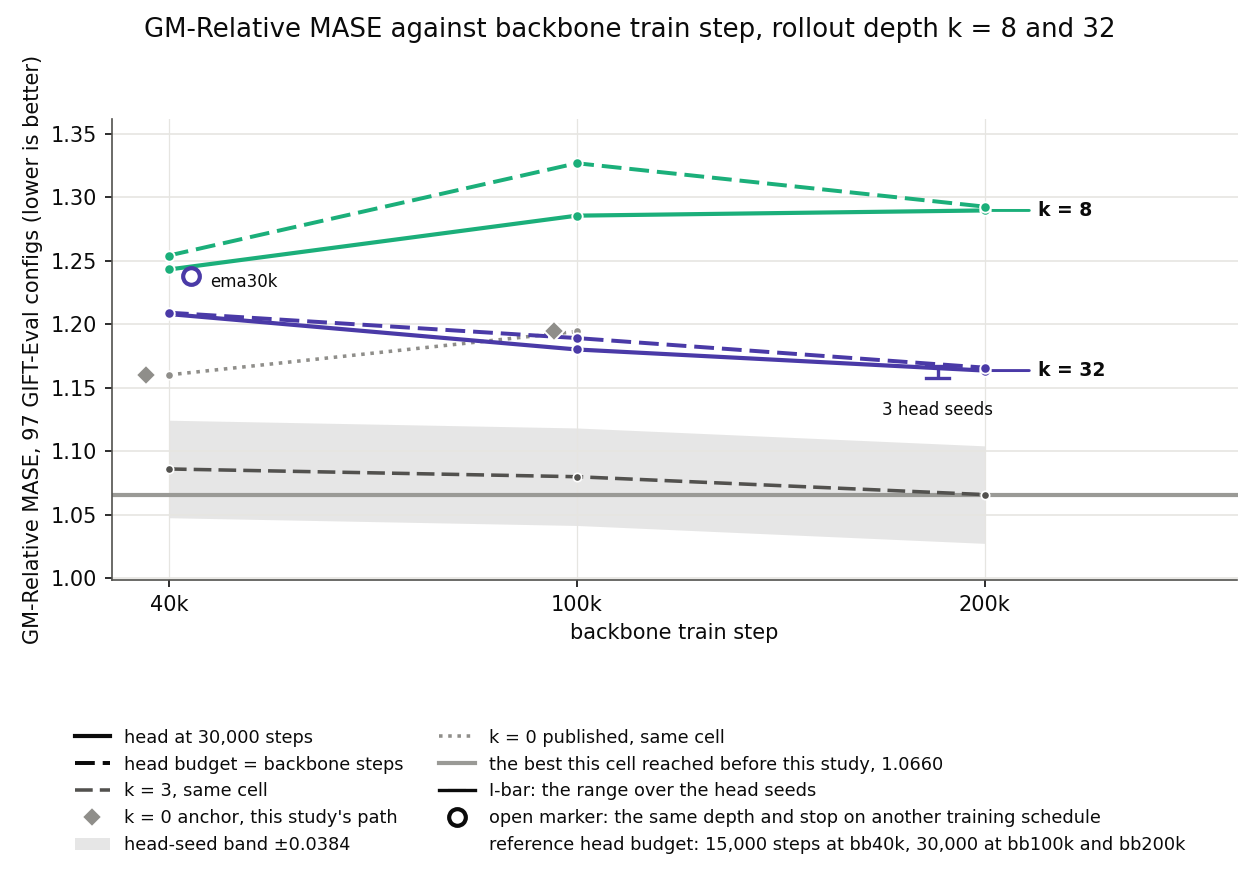
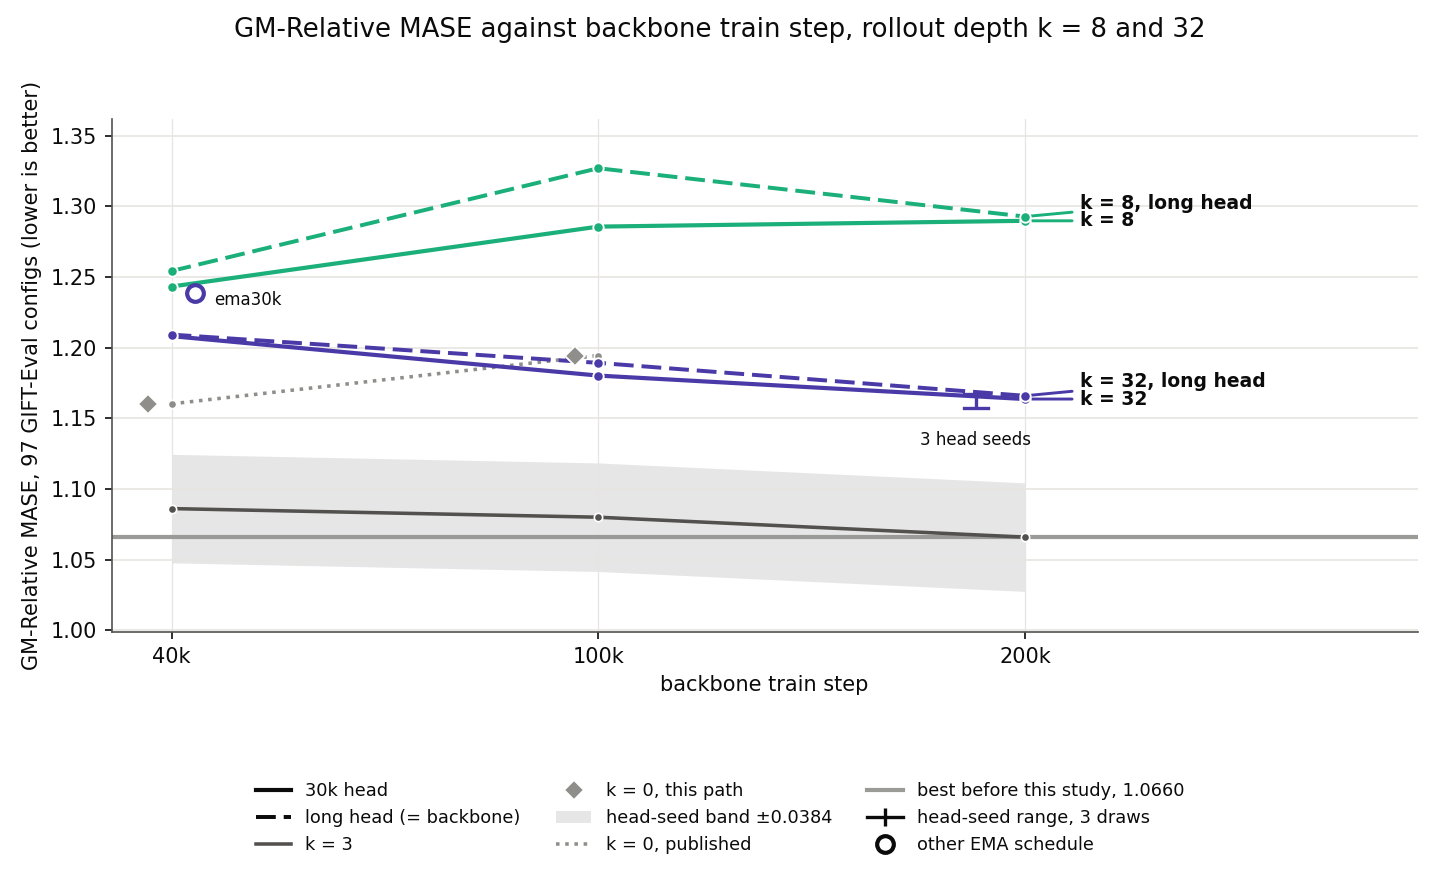
report(#401): the ladder's colour and legend, so a reader decodes nothing
Dashed carried two meanings in one figure: the matched head budget on an arm,
and the k = 3 reference. The k = 3 reference is a plain line now, so dashed
means the head budget and nothing else.

Both curves of a depth carry a direct label, `k = 8` and `k = 8, long head`,
so identity never rests on a line style.

The legend was nine sentences and ran off both edges. An entry is a key now:
`30k head`, `long head (= backbone)`, `k = 3`, `k = 0, published`,
`k = 0, this path`. Every "same cell" and "this study's path" qualifier moves
to the caption, which is where the report's other provenance sits. The
reference head budget moves there too. The head-seed key draws as an I-bar,
because it marks an I-bar.

The canvas is wider and the right margin holds the four end labels.

No number changed. 754 tests pass and the CI gate exits 0.

Claude-Session: https://claude.ai/code/session_017ZyjWRedGjUN9qyu7EpDpU

diff --git a/reports/2026-08-15_rollout_depth_k16_8_32/scripts/plot_depth_ladder.py b/reports/2026-08-15_rollout_depth_k16_8_32/scripts/plot_depth_ladder.py
@@ -34,7 +34,8 @@ changes across them:
 The dashed, the dotted and the grey mark are all the parent study's numbers,
 so they carry ITS head budget: 15,000 steps at bb40k and 30,000 at bb100k and
 bb200k. The right panel's own cells train 40,000 and 100,000 head steps, so
-that panel is not head-matched. `REF_HEAD_NOTE` puts this in the legend.
+that pair is not head-matched. The caption carries this, because it is
+provenance and not a key to a line on the plot.
 
 A shaded band of +/-0.0384 rides on the k = 3 reference. That is the pooled
 head-seed band of `ema_sched_ladder.md`, which `noise_band.py` pools, and it
@@ -331,13 +332,13 @@ def draw_panel(ax, phase, arms, k3, k0, xs, frontier, stops_k, variants=(),
                     mec="white", mew=0.9, zorder=4)
             values += list(pts.values())
             curves.append((phase_drawn, k))
-            if phase_drawn == 1:
-                ends.append((xs[ss[-1]], pts[ss[-1]], k, col))
+            tag = D.label(k) if phase_drawn == 1 else f"{D.label(k)}, long head"
+            ends.append((xs[ss[-1]], pts[ss[-1]], tag, col))
 
     values += draw_variants(ax, [c for c in variants if c[0] == 1], xs)
     values += draw_seeds(ax, repeats or {}, 1, xs)
     values += draw_band(ax, xs, k3, D.REF_K3_INK)
-    values += draw_reference(ax, xs, k3, D.REF_K3_INK, D.STYLE_K3)
+    values += draw_reference(ax, xs, k3, D.REF_K3_INK, "solid")
     values += draw_reference(ax, xs, k0, D.REF_K0_INK, D.STYLE_K0)
     if True:
         values += draw_anchor(ax, xs, anchor or {})
@@ -345,7 +346,7 @@ def draw_panel(ax, phase, arms, k3, k0, xs, frontier, stops_k, variants=(),
     ax.axhline(frontier, color=D.PRIOR_INK, lw=2.0, zorder=1)
     ax.set_xticks([xs[s] for s in stops_k])
     ax.set_xticklabels([f"{s}k" if s in STOPS_K else str(s) for s in stops_k])
-    ax.set_xlim(-0.14, len(stops_k) - 1 + 0.62)
+    ax.set_xlim(-0.14, len(stops_k) - 1 + 0.92)
     ax.set_xlabel("backbone train step")
     ax.grid(axis="y", color=D.GRID, lw=0.8)
     ax.set_axisbelow(True)
@@ -360,8 +361,8 @@ def label_ends(ax, ends, lo, hi):
     """
     gap = (hi - lo) * 0.034
     ys = spread([e[1] for e in ends], gap)
-    for (x, y, k, col), yy in zip(ends, ys):
-        ax.annotate(D.label(k), (x, y), xytext=(x + 0.13, yy),
+    for (x, y, tag, col), yy in zip(ends, ys):
+        ax.annotate(tag, (x, y), xytext=(x + 0.13, yy),
                     textcoords="data", fontsize=9, color=D.INK,
                     va="center", ha="left", fontweight="bold",
                     arrowprops=dict(arrowstyle="-", color=col, lw=1.4,
@@ -389,7 +390,7 @@ def main(argv=None):
     k3 = {s: v for s, v in k3.items() if s in xs}
     k0 = {s: v for s, v in k0.items() if s in xs}
     phases = [p for p in (1, 2) if scores.get(p)]
-    fig, axes = plt.subplots(1, 1, figsize=(8.4, 5.8), squeeze=False)
+    fig, axes = plt.subplots(1, 1, figsize=(9.6, 5.8), squeeze=False)
     axes = axes[0]
 
     values, per_panel = [], []
@@ -407,47 +408,44 @@ def main(argv=None):
                        "(lower is better)")
     handles = [
         Line2D([], [], color=D.INK, linestyle="-", lw=2.0,
-               label="head at 30,000 steps"),
+               label="30k head"),
         Line2D([], [], color=D.INK, linestyle=(0, (5, 2)), lw=1.9,
-               label="head budget = backbone steps"),
-        Line2D([], [], color=D.INK_SOFT, linestyle=D.STYLE_K3, lw=1.7,
-               label="k = 3, same cell"),
+               label="long head (= backbone)"),
+        Line2D([], [], color=D.INK_SOFT, linestyle="solid", lw=1.7,
+               label="k = 3"),
         Patch(facecolor=D.REF_K3_INK, alpha=0.14, lw=0,
               label=f"head-seed band ±{HEAD_SEED_BAND:.4f}"),
         Line2D([], [], color=D.REF_K0_INK, linestyle=D.STYLE_K0, lw=1.7,
-               label="k = 0 published, same cell"),
+               label="k = 0, published"),
         Line2D([], [], color=D.PRIOR_INK, lw=2.0,
-               label=f"the best this cell reached before this study, "
-                     f"{frontier:.4f}")]
+               label=f"best before this study, {frontier:.4f}")]
     if any(s in xs for s in anchor):
         handles.insert(3, Line2D([], [], marker="D", ms=7.0, lw=0,
                                  color=D.REF_K0_INK, mec="white", mew=0.9,
-                                 label="k = 0 anchor, this study's path"))
+                                 label="k = 0, this path"))
     if repeats:
-        handles.append(Line2D([], [], marker="_", ms=9.0, lw=1.6,
-                              color=D.INK,
-                              label="I-bar: the range over the head seeds"))
+        handles.append(Line2D([], [], marker="|", ms=9.0, lw=1.6,
+                              color=D.INK, markeredgewidth=1.6,
+                              label="head-seed range, 3 draws"))
     if any(c[2] in xs for c in variants):
         handles.append(
             Line2D([], [], marker="o", ms=8.0, lw=0, mfc="white",
                    mec=D.INK, mew=2.0,
-                   label="open marker: the same depth and stop on another "
-                         "training schedule"))
+                   label="other EMA schedule"))
     # The head budget of the three reference marks. They are the parent
     # study's own numbers, so they carry that study's head budget and not
     # this one's. The right panel draws cells at 40,000 and 100,000 head
     # steps against them, so the panel is not head-matched and the figure
     # has to say so.
-    handles.append(Line2D([], [], lw=0, label=REF_HEAD_NOTE))
     # Two columns, not three. One panel is narrower than two were, and three
     # columns of these labels ran off both edges of the canvas.
     fig.legend(handles=handles, loc="lower center",
-               ncol=2, frameon=False, fontsize=8.5,
+               ncol=3, frameon=False, fontsize=8.5,
                bbox_to_anchor=(0.5, 0.0))
     fig.suptitle("GM-Relative MASE against backbone train step, "
                  "rollout depth k = 8 and 32", fontsize=12.5, color=D.INK)
     Path(a.out).parent.mkdir(parents=True, exist_ok=True)
-    fig.tight_layout(rect=(0, 0.235, 1, 0.945))
+    fig.tight_layout(rect=(0, 0.175, 1, 0.945))
     fig.savefig(a.out)
     drawn = len(curves)
     shown = [c for c in variants if c[2] in xs]

diff --git a/reports/2026-08-15_rollout_depth_k16_8_32/rollout_depth_k16_8_32.md b/reports/2026-08-15_rollout_depth_k16_8_32/rollout_depth_k16_8_32.md
@@ -6,8 +6,9 @@ head trained as long as the backbone bring a significant gain? No, and no.
 ![GM-Relative MASE against backbone train step, rollout depth 8 and 32](plots/mean/depth_ladder.png)
 
 *GM-Relative MASE over the 97 GIFT-Eval configs, student head, mean
-reduction. Solid: a 30,000-step head. Dashed: the head budget set equal to the
-backbone steps. One colour per depth.*
+reduction. One colour per depth. Solid: a 30,000-step head. Dashed: the head
+budget set equal to the backbone steps. The k = 3 and k = 0 references carry
+their own head budget: 15,000 steps at bb40k, 30,000 at bb100k and bb200k.*
 
 No mean cell beats the k = 3 reference. No mean cell separates from the k = 0
 anchor: the closest, k = 32 at bb200k, sits inside the band of it. The best

diff --git a/reports/2026-08-15_rollout_depth_k16_8_32/results/mean/arm_compare.md b/reports/2026-08-15_rollout_depth_k16_8_32/results/mean/arm_compare.md
@@ -9,9 +9,9 @@
 | 1 | k = 32 | base | 40,000 | 30,000 | 7.9575 | 1.2082 | -6.7493 | mean |
 | 1 | k = 32 | ema30k | 40,000 | 30,000 | - | 1.2385 | - | - |
 | 1 | k = 32 | base | 100,000 | 30,000 | 1.7939 | 1.1803 | -0.6136 | mean |
-| 1 | k = 32 | base | 200,000 | 30,000 | - | 1.1576 | - | - |
-| 1 | k = 32 | base | 200,000 | 30,000 | - | 1.1676 | - | - |
 | 1 | k = 32 | base | 200,000 | 30,000 | - | 1.1637 | - | - |
+| 1 | k = 32 | base | 200,000 | 30,000 | - | 1.1676 | - | - |
+| 1 | k = 32 | base | 200,000 | 30,000 | - | 1.1576 | - | - |
 | 1 | k = 0 | parent | 100,000 | 30,000 | - | 1.1945 | - | - |
 | 2 | k = 8 | base | 40,000 | 40,000 | - | 1.2543 | - | - |
 | 2 | k = 8 | base | 100,000 | 100,000 | - | 1.3270 | - | - |
